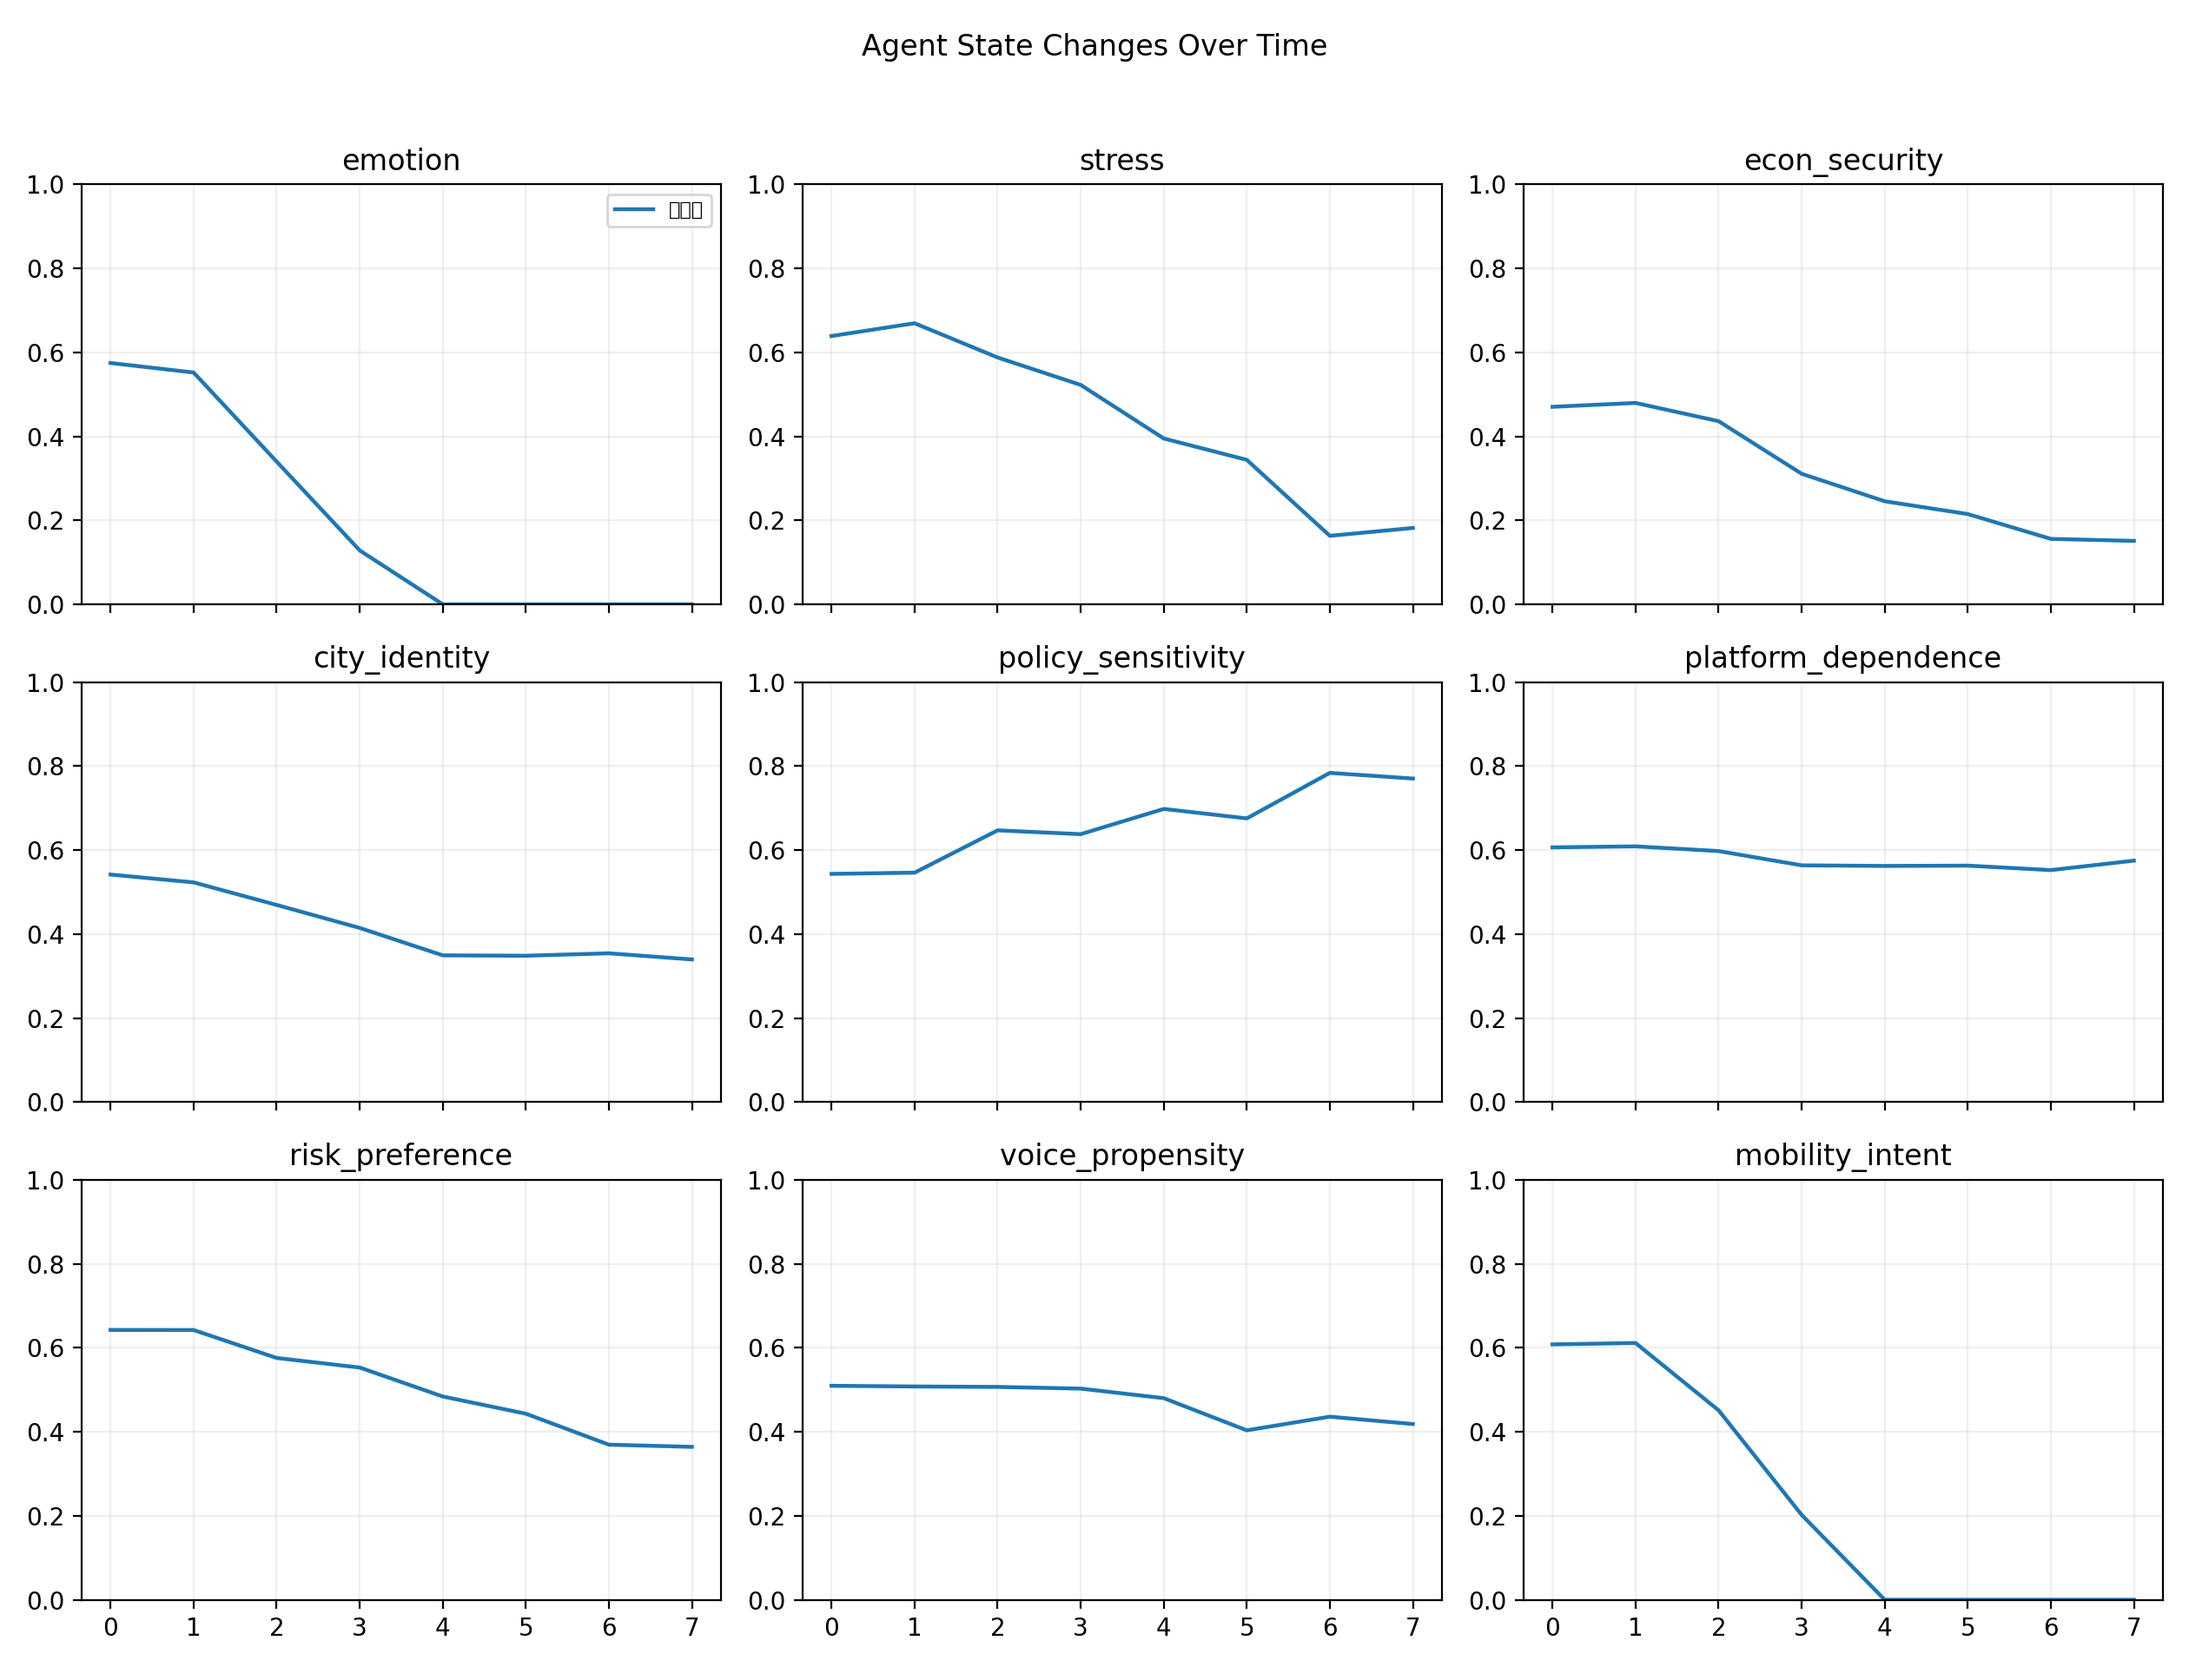
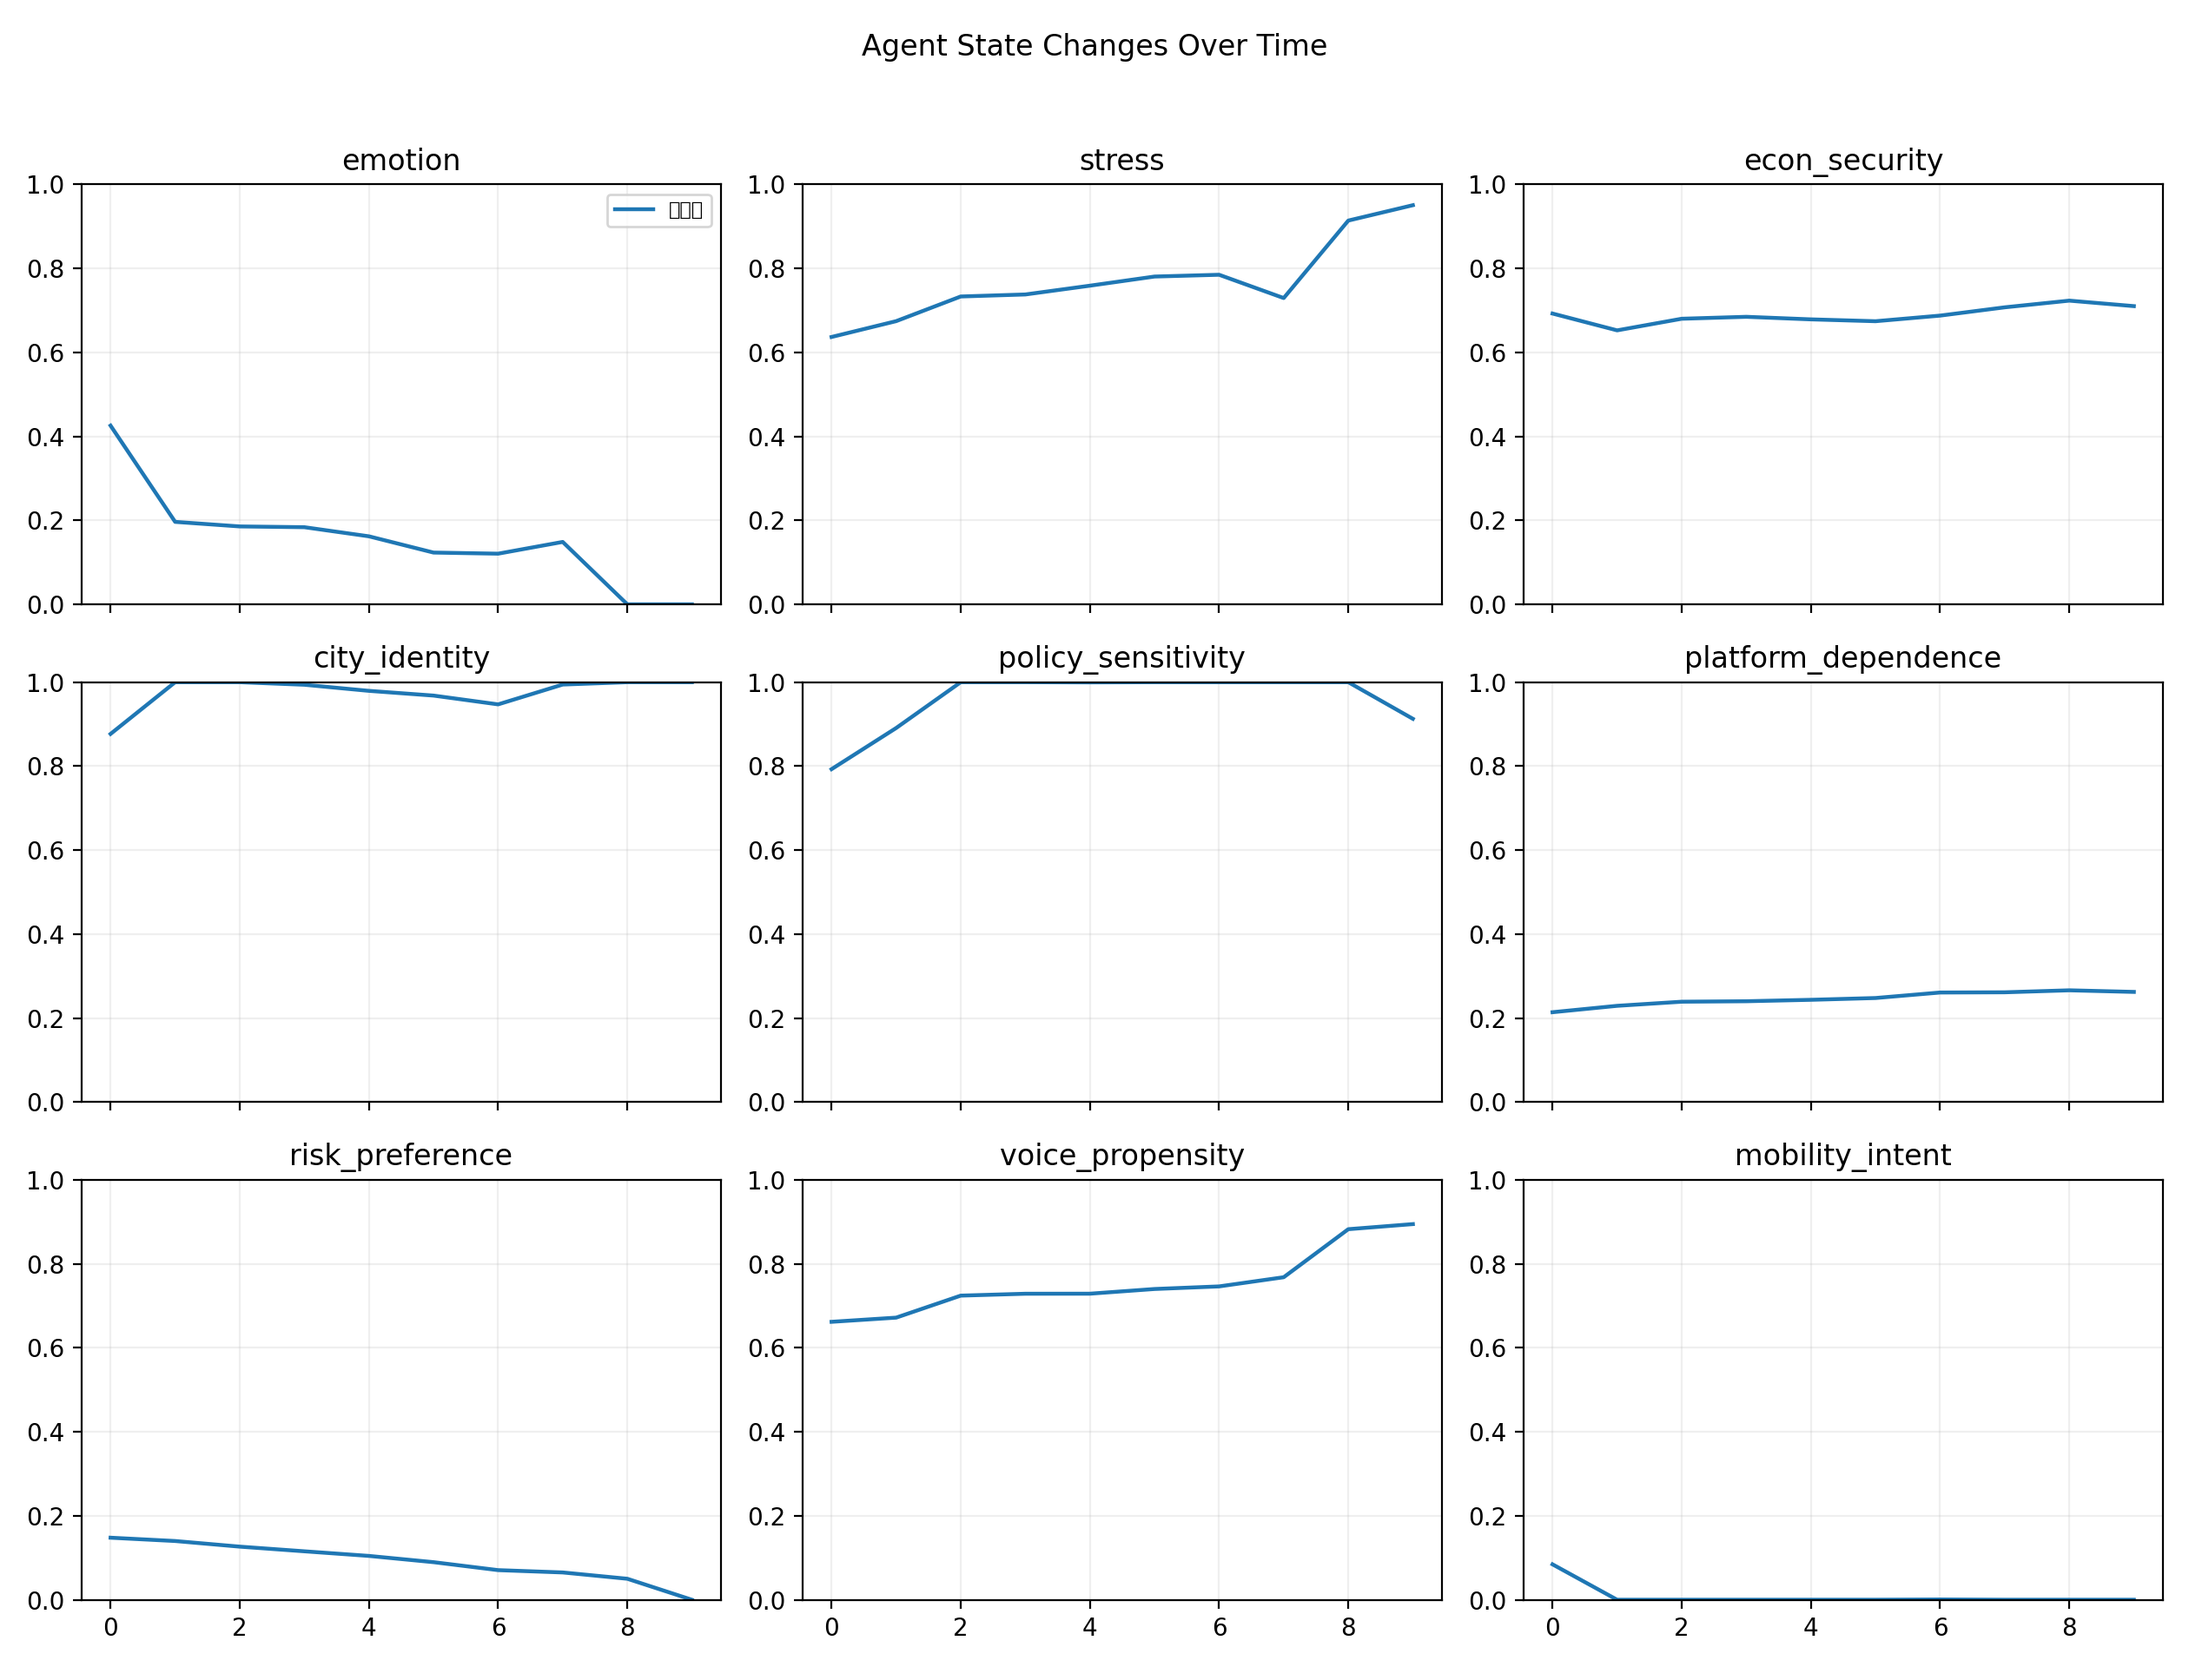
sync

Changed region(s): [[0.1238, 0.3125, 0.1857, 0.3438], [0.4024, 0.1875, 0.4333, 0.2188], [0.2167, 0.9375, 0.2476, 0.9688]]

diff --git a/generative_city_sim.py b/generative_city_sim.py
@@ -358,6 +358,7 @@ STATEFUL = CONFIG["stateful"]
 MEMORY_DIR = CONFIG["memory_dir"]
 LOG_DIR = CONFIG["log_dir"]
 MAP_PATH = CONFIG.get("map_path", "citymap.md")
+PRINT_AGENT_PROFILE = CONFIG.get("print_agent_profile", False)
 
 # =========================================================
 # 政策事件
@@ -416,6 +417,17 @@ def build_agent(agent_id, df):
         "memory": [],
         "social_neighbors": []
     }
+
+def print_agent_profiles(agent_ids):
+    print("\n================= Agent Profiles =================")
+    for agent_id in agent_ids:
+        try:
+            block = load_profile_from_md(agent_id)
+        except ValueError as exc:
+            print(f"⚠ {exc}")
+            continue
+        print(block.strip())
+        print()
 
 # =========================================================
 # Memory & Logs
@@ -1318,6 +1330,8 @@ def build_master_timeline(schedules):
 def run_simulation():
     df = pd.read_csv(CSV_PATH)
     agents = [build_agent(i, df) for i in AGENT_IDS]
+    if PRINT_AGENT_PROFILE:
+        print_agent_profiles([a["id"] for a in agents])
     start_day = 1
     if STATEFUL:
         sim_state = load_sim_state()

diff --git a/config.py b/config.py
@@ -34,9 +34,9 @@ CONFIG = {
             },
         },
         "routing": {
-            "default": "openai_gpt",
+            "default": "ollama_local",
             "tasks": {
-                "schedule": "openai_gpt",
+                "schedule": "ollama_local",
             },
         },
     },
@@ -44,6 +44,7 @@ CONFIG = {
     "agent_ids": [45],
     "sim_days": 1,
     "seconds_per_day": 10,
+    "print_agent_profile": False,
     # Data sources
     "csv_path": "hangzhou_agents_state_init.csv",
     "md_path": "hangzhou_profiles_with_names.md",
